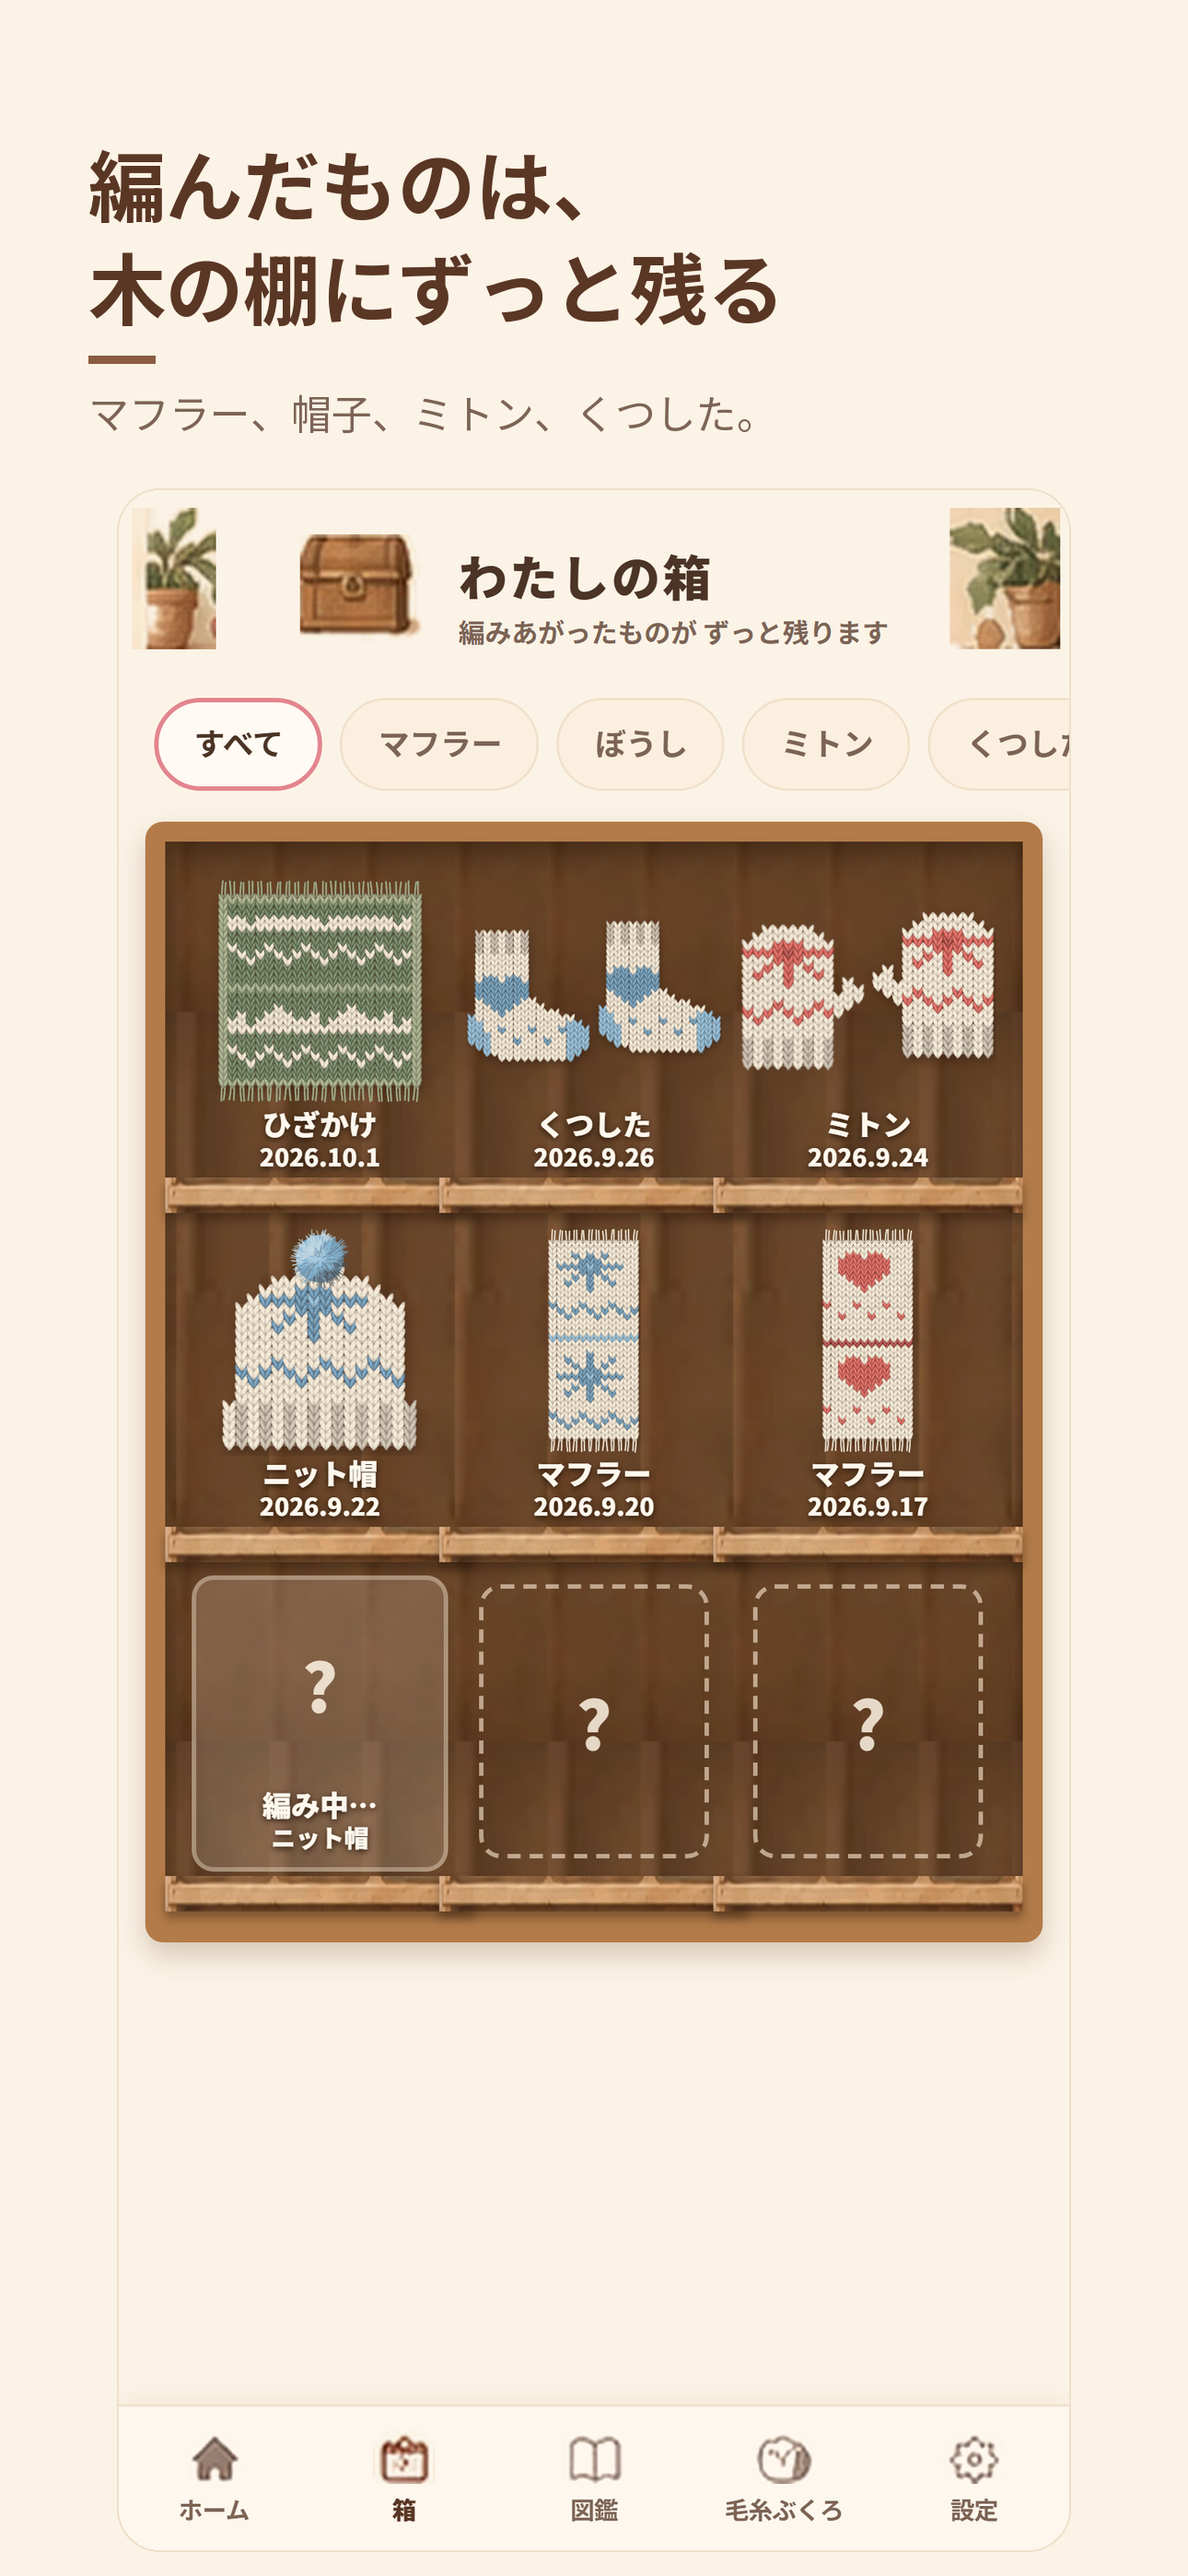
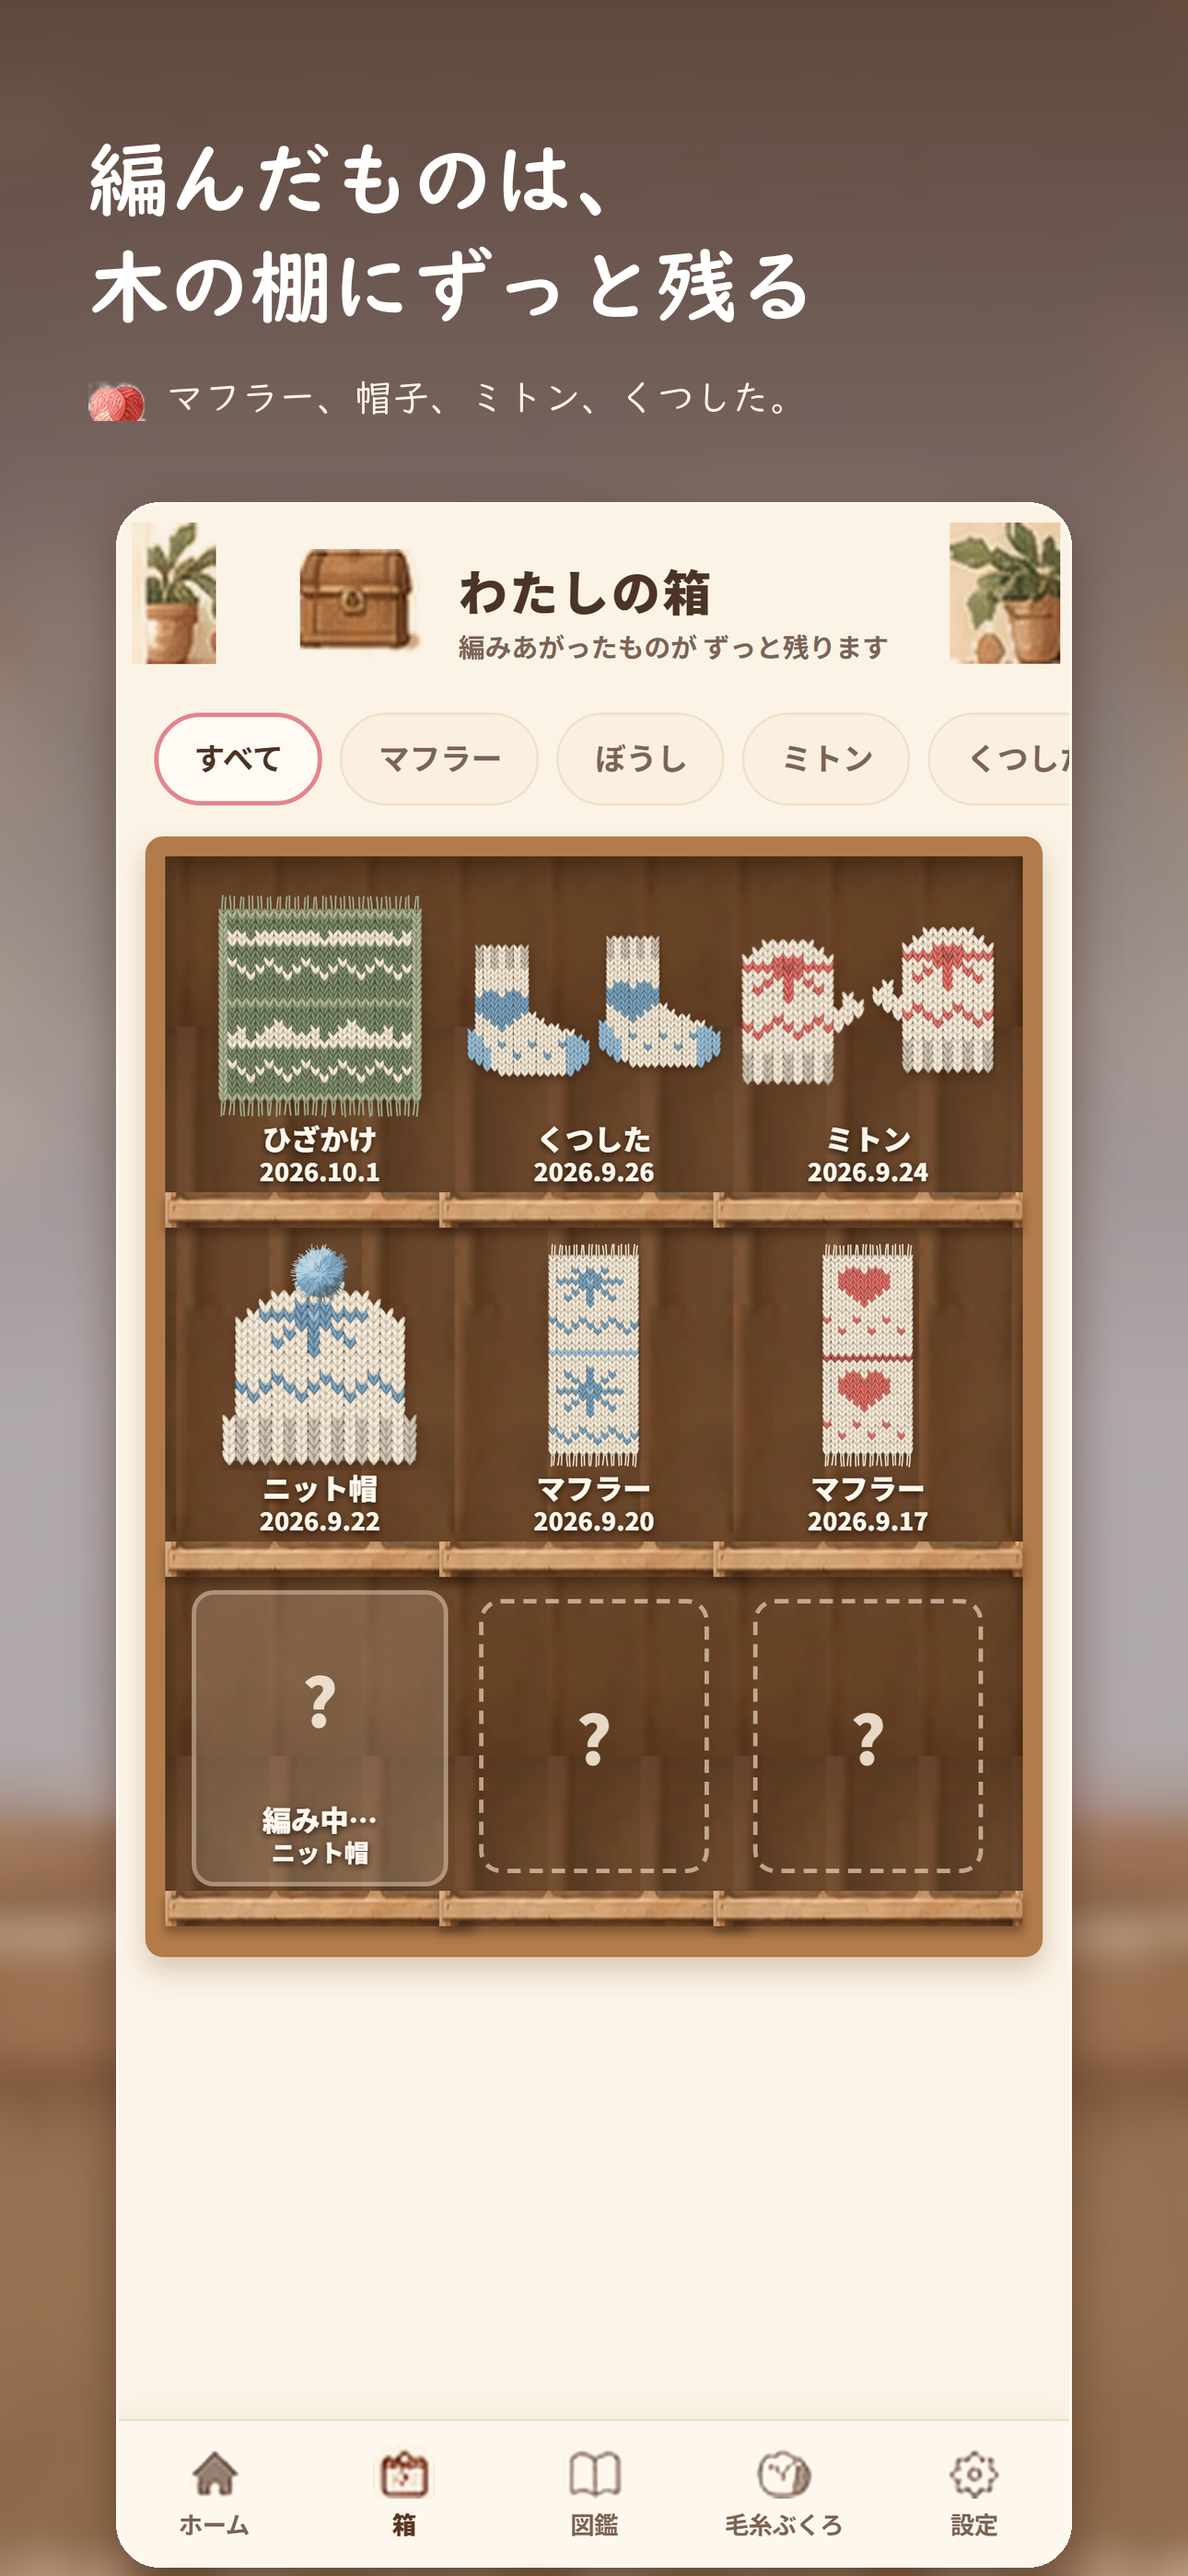
ストア画像の地を生成りの無地から窓辺の部屋の絵と木の色に変える
見出しは白の UDデジタル教科書体、茜の線は毛糸玉の絵に。フィーチャーの左はこげ茶。
--compose-only で撮り直さずに組める。前の版は store/_cream_backup_2026-10-10/。

diff --git a/tools/make_store.py b/tools/make_store.py
@@ -1,8 +1,12 @@
 """ストアの画面写真(iPhone 1290x2796 / Play 1080x1920 を5枚ずつ)とフィーチャー画像(1024x500)を作る。
-アプリの画面は dist をブラウザで開いて撮った本物。写真に値段・「無料」は入れない。python make_store.py"""
+アプリの画面は dist をブラウザで開いて撮った本物。写真に値段・「無料」は入れない。python make_store.py
+2026-10-10 持ち主「Claude 特有の背景をなくして」: 生成りの無地をやめ、アプリの窓辺の部屋の絵(src/assets/ref/home_window.webp)を
+ぼかして全面に敷き、上に木の色の影をかける。見出しは白の UDデジタル教科書体。茜の線は毛糸玉の絵に替えた。
+撮り直さずに組むだけなら --compose-only。前の版は store/_cream_backup_2026-10-10/。"""
 import os
+import sys
 
-from PIL import Image, ImageDraw, ImageFont
+from PIL import Image, ImageDraw, ImageFilter, ImageFont
 from playwright.sync_api import sync_playwright
 
 from serve import serve
@@ -21,6 +25,37 @@ INK2 = (0x7C, 0x64, 0x55)
 RULE = (0xEF, 0xE0, 0xCA)
 AKANE = (0x8A, 0x5D, 0x42)
 FONT = 'C:/Windows/Fonts/NotoSansJP-VF.ttf'
+HEADF = 'C:/Windows/Fonts/UDDigiKyokashoN-B.ttc'
+SUBF = 'C:/Windows/Fonts/UDDigiKyokashoN-R.ttc'
+WOOD = (0x4A, 0x2C, 0x1C)     # 窓枠の木の濃い色(影)
+CREAM_T = (0xFF, 0xF4, 0xE6)  # 地の上の添え書き
+REF = os.path.join(ROOT, 'src', 'assets', 'ref')
+
+
+def room_bg(W, H, blur, top_a=215, mid_a=70, left=False):
+    """窓辺の部屋の絵をぼかして全面に。上(left=True なら左)に木の色の影をかけて白い字を読ませる"""
+    art = Image.open(os.path.join(REF, 'home_window.webp')).convert('RGB')
+    k = max(W / art.width, H / art.height)
+    art = art.resize((int(art.width * k) + 1, int(art.height * k) + 1), Image.LANCZOS)
+    x0, y0 = (art.width - W) // 2, (art.height - H) // 2
+    im = art.crop((x0, y0, x0 + W, y0 + H)).filter(ImageFilter.GaussianBlur(blur)).convert('RGBA')
+    ov = Image.new('RGBA', (W, H))
+    od = ImageDraw.Draw(ov)
+    n = W if left else H
+    for i in range(n):
+        t = i / n
+        a = int(top_a + (mid_a - top_a) * min(1.0, t / 0.55))
+        if left:
+            od.line([(i, 0), (i, H)], fill=WOOD + (a,))
+        else:
+            od.line([(0, i), (W, i)], fill=WOOD + (a,))
+    im.alpha_composite(ov)
+    return im.convert('RGB')
+
+
+def yarn(size):
+    b = Image.open(os.path.join(REF, 'd_ball_ichigo.webp')).convert('RGBA')
+    return b.resize((size, int(b.height * size / b.width)), Image.LANCZOS)
 
 
 def font(size, weight='Bold'):
@@ -72,18 +107,19 @@ def rounded(im, r):
 def compose(kind, W, H, scale):
     for name, _q, _c, head, sub in SHOTS:
         raw = Image.open(os.path.join(RAW, f'{kind}_{name}.png')).convert('RGB')
-        canvas = Image.new('RGB', (W, H), PAPER)
+        canvas = room_bg(W, H, int(W / 70))
         d = ImageDraw.Draw(canvas)
         x = int(96 * scale)
         y = int(150 * scale)
-        hf = font(int(84 * scale))
-        for line in head.split('\n'):
-            d.text((x, y), line, font=hf, fill=INK)
-            y += int(112 * scale)
-        y += int(12 * scale)
-        d.rectangle((x, y, x + int(72 * scale), y + int(8 * scale)), fill=AKANE)
+        hf = ImageFont.truetype(HEADF, int(88 * scale))
+        for line in head.split(NL):
+            d.text((x, y), line, font=hf, fill=(255, 255, 255))
+            y += int(116 * scale)
+        y += int(20 * scale)
+        yb = yarn(int(64 * scale))
+        canvas.paste(yb, (x, y + int(4 * scale)), yb)
+        d.text((x + int(84 * scale), y + int(8 * scale)), sub, font=ImageFont.truetype(SUBF, int(41 * scale)), fill=CREAM_T)
         y += int(36 * scale)
-        d.text((x, y), sub, font=font(int(44 * scale), 'Regular'), fill=INK2)
         y += int(110 * scale)
         # アプリの画面(枠は細い線だけ。端末の絵は描かない)
         avail_h = H - y
@@ -93,8 +129,11 @@ def compose(kind, W, H, scale):
             sh = avail_h + int(200 * scale)
         shot = raw.resize((sw, int(raw.height * sw / raw.width)), Image.LANCZOS).crop((0, 0, sw, sh))
         r = int(44 * scale)
-        border = Image.new('RGB', (sw + 4, sh + 4), RULE)
-        canvas.paste(rounded(border, r + 2), ((W - sw) // 2 - 2, y - 2), rounded(border, r + 2))
+        shm = Image.new('L', (W, H), 0)
+        ImageDraw.Draw(shm).rounded_rectangle(((W - sw) // 2, y + int(18 * scale), (W + sw) // 2, y + sh + int(30 * scale)), r, fill=150)
+        canvas.paste(WOOD, (0, 0), shm.filter(ImageFilter.GaussianBlur(int(26 * scale))))
+        border = Image.new('RGB', (sw + 6, sh + 6), (255, 250, 242))
+        canvas.paste(rounded(border, r + 3), ((W - sw) // 2 - 3, y - 3), rounded(border, r + 3))
         rs = rounded(shot, r)
         canvas.paste(rs, ((W - sw) // 2, y), rs)
         canvas.save(os.path.join(STORE, kind, f'{name}.png'))
@@ -103,7 +142,7 @@ def compose(kind, W, H, scale):
 def feature():
     """1024x500。左に名前、右に冬の窓辺・毛糸のかご・眠る猫(見本のスプラッシュの絵)"""
     W, H = 1024, 500
-    c = Image.new('RGB', (W, H), PAPER)
+    c = Image.new('RGB', (W, H), (0x5E, 0x37, 0x25))  # 左は毛糸のこげ茶の無地
     art = Image.open(os.path.join(ROOT, 'src', 'assets', 'ref', 'c_hill.webp')).convert('RGB')
     # 丘と家のあたりを、右の 600×500 にかぶせる(元の絵の右端は角丸の縁なので削る)
     art = art.crop((0, 0, int(art.width * 0.93), art.height))
@@ -113,21 +152,23 @@ def feature():
     top = int(big.height * 0.36)
     part = big.crop((0, top, tw, top + th))
     x0 = W - part.width
-    # 左の端は生成りへなだらかに
+    # 左の端はこげ茶へなだらかに
     mask = Image.new('L', part.size, 255)
     md = ImageDraw.Draw(mask)
     for i in range(120):
         md.line([(i, 0), (i, H)], fill=int(255 * i / 120))
     c.paste(part, (x0, 0), mask)
     d = ImageDraw.Draw(c)
-    d.text((70, 150), 'てくあみ', font=font(96), fill=(0x6E, 0x3D, 0x27))
-    d.rounded_rectangle((72, 282, 72 + 64, 290), 4, fill=AKANE)
-    d.text((70, 312), '歩いて編む歩数計', font=font(40), fill=INK)
+    d.text((70, 140), 'てくあみ', font=ImageFont.truetype(HEADF, 100), fill=(255, 255, 255))
+    yb = yarn(56)
+    c.paste(yb, (72, 300), yb)
+    d.text((142, 306), '歩いて編む歩数計', font=ImageFont.truetype(HEADF, 40), fill=CREAM_T)
     c.save(os.path.join(STORE, 'play', 'feature_1024x500.png'))
 
 
 if __name__ == '__main__':
-    take_raw()
+    if '--compose-only' not in sys.argv:
+        take_raw()
     compose('iphone', 1290, 2796, 1.0)
     compose('play', 1080, 1920, 0.72)
     feature()

diff --git a/store/_cream_backup_2026-10-10/play/申告の回答案.md b/store/_cream_backup_2026-10-10/play/申告の回答案.md
@@ -1,0 +1,55 @@
+# Google Play の申告の回答案(てくあみ 1.0.0 / jp.tekuami.app)
+
+個人アカウントで出せる範囲に収めている: カテゴリは「健康&フィットネス」。服薬・疾患管理・診断のような医療の機能は無い(2026-10-04 ひとつぶ手帳はカテゴリ「医療」で否承認になった。申告を書き換えて通すことはしない)。
+
+## 1. ヘルスコネクトの権限の申告(アプリのコンテンツ → ヘルスコネクト)
+
+マニフェストに残している健康の権限は android.permission.health.READ_STEPS だけ(プラグインが宣言するほかの権限は tools:node="remove" で外した。aapt2 dump permissions で確認済み: INTERNET / health.READ_STEPS / ACTIVITY_RECOGNITION / VIBRATE / ACCESS_NETWORK_STATE / BILLING)。
+書きこみ・バックグラウンド読み取り・過去データ(30日より前)の読み取りは宣言していない。
+
+- 申告するデータ型: 歩数(Steps)の読み取り
+- 使い道の区分: フィットネス・ウォーキング(歩数のトラッキング)
+- 説明文案:
+  「てくあみは歩数計です。ヘルスコネクトから日ごとの歩数を読み、その歩数に合わせてアプリの中の編み物(マフラーなど)を1段ずつ進め、日ごとの歩数の記録として表示します。歩数は端末の中だけに保存し、外部へ送信・共有・販売しません。書きこみは行いません。」
+- 歩数が無いとアプリの中心の機能(編み物が進む・記録)が動かないことを書く。
+- 権限の理由を見せる画面: プラグイン(@capgo/capacitor-health)の PermissionsRationaleActivity が ACTION_SHOW_PERMISSIONS_RATIONALE(Android 13 以下)と VIEW_PERMISSION_USAGE / HEALTH_PERMISSIONS の activity-alias(Android 14 以上)を受け、アプリに同梱した privacypolicy.html を表示する。
+- 権限を聞く時点: 初回、色を選んだあとの「ヘルスケアとつなぐ」ボタンを押したとき(理由の一文を添えてから聞く)。
+
+要件として確かめたこと(Google の Health Connect のポリシー・開発者向けガイドより。公開前に Play Console の画面の文言でもう一度確かめる)
+- アプリが使うデータ型ごとに、Play Console で申告と理由が要る。申告に無い権限をマニフェストに残すと審査で止まる → READ_STEPS 以外は外した
+- プライバシーポリシーに、健康のデータの扱い(何を読むか・何に使うか・共有しないこと)を書く → store/privacy.md
+- 権限の説明を表示する Activity(上記)が要る
+- 広告・販売・信用審査などへの利用は禁止 → 使っていない
+- targetSdk 36・minSdk 26(ヘルスコネクトの SDK の要件)
+
+## 2. 健康アプリの申告(アプリのコンテンツ → 健康に関するアプリ)
+
+- 健康に関する機能: 「アクティビティとフィットネス(歩数のトラッキング)」だけにチェック
+- 医療機器・診断・服薬・疾患管理・臨床: いいえ
+- 政府機関の健康アプリ: いいえ
+
+## 3. データ セーフティ
+
+- データを収集しますか: はい
+  - 健康とフィットネス → 「フィットネス情報」(歩数): 収集する。端末上でのみ処理(サーバーへ送らない)。目的「アプリの機能」。共有しない。任意ではなく、アプリの機能に必要
+    ※Play の定義では「端末の外へ送るもの」が収集。歩数は外へ送らないので「収集しない」と答えてもよいが、ヘルスコネクトの申告と食い違わないよう、端末上だけで処理する旨を添えて「収集する(端末上で処理)」と答える案。Play Console の「エフェメラル/端末上で処理」の選択肢に合わせる
+  - 購入履歴: RevenueCat(購入の管理)に送られる。目的「アプリの機能」。共有しない(処理者への送信は共有に当たらない)
+  - アプリのアクティビティ・端末 ID: RevenueCat が購入の照合に使う匿名の ID。目的「アプリの機能」
+- データは送信中に暗号化されますか: はい(RevenueCat は HTTPS)
+- データの削除をリクエストできますか: アプリ内の「記録をすべて消す」で端末の記録を消せる。アカウントは無い
+- 広告: 含まない
+
+## 4. コンテンツのレーティング(IARC の質問票)
+
+- カテゴリ: ユーティリティ・生産性・コミュニケーション・その他
+- 暴力・性的表現・言葉づかい・薬物・ギャンブル: すべていいえ
+- ユーザー同士のやり取り・位置情報の共有: いいえ
+- デジタル商品の購入: はい(買い切りの App内課金)
+- 見込み: 全年齢(IARC 3+ / CERO 相当 A)
+
+## 5. そのほか
+
+- 対象年齢: 13歳以上(子ども向けにはしない。ファミリー ポリシーの対象外にする)
+- 広告 ID: 使わない(「広告 ID を使用しない」と申告)
+- 政府・金融・VPN: 該当なし
+- ACTIVITY_RECOGNITION: 端末の歩数センサーを読むための実行時の権限。申告フォームは不要(身体活動の権限は機密性の高い権限の申告対象外)
